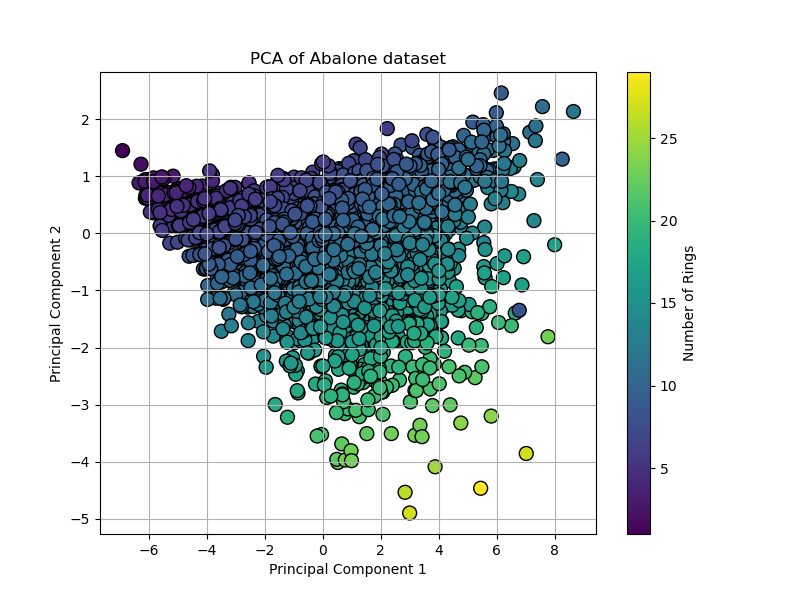
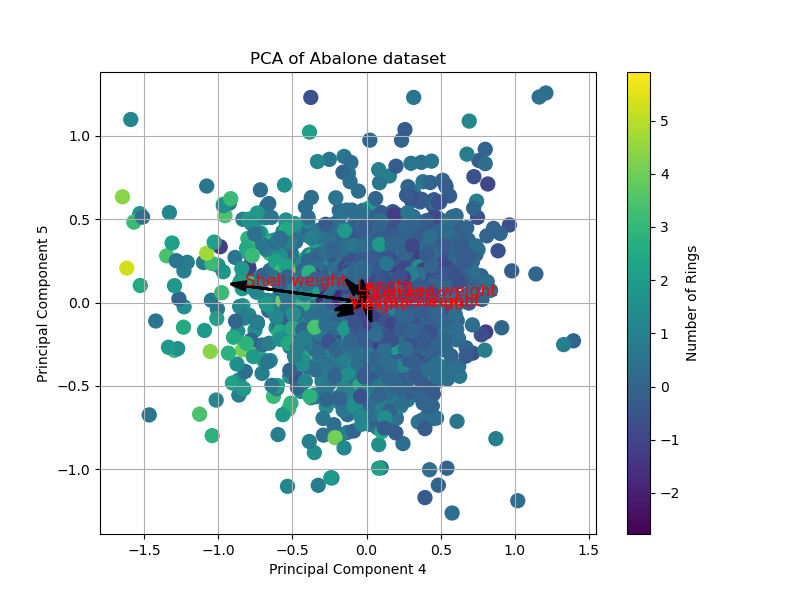
PCA Changes

diff --git a/pca-new.py b/pca-new.py
@@ -1,11 +1,36 @@
 from data import *
-from sklearn.preprocessing import StandardScaler
+from sklearn.decomposition import PCA
+from scipy import stats
 
-D_np = D_clean.to_numpy() # convert to numpy arrays
-#D_std = D_np - np.ones((N, 1)) * D_np.mean(axis=0) # mean = 0
-D_std = StandardScaler().fit_transform(D_np) # mean = 0, std = 1 (standardized)
+# Standardize the data
+D_std = (D_clean - D_clean.mean()) / D_clean.std()
 
-corr_mat = np.corrcoef(D_std.T) # correlation matrix
+X = D_std.drop(columns=["Rings"])
+Y = D_std
+X_and_Y = pd.concat([X, Y], axis=1)
+
+pca = PCA()
+pca.fit(X)
+X_pca = pca.transform(X)
+
+#%% Remove outliers
+# Calculate Z-scores
+z_scores = np.abs(stats.zscore(X_pca))
+
+# Define a threshold for Z-scores
+threshold = 5
+
+# Filter out the outliers
+outlier_mask = (z_scores < threshold).all(axis=1)
+X_pca = X_pca[outlier_mask]
+X_and_Y = X_and_Y[outlier_mask]
+
+print(f"Original shape: {(4177, 7)}")
+print(f"Filtered shape: {X_pca.shape}")
+print(f"Number of outliers: {4177 - X_pca.shape[0]}")
+
+#%% Plot the explained variance (this section could also use the PCA package, it was tested with and without and gave same results)
+corr_mat = np.corrcoef(X.T) # correlation matrix
 
 eigenvalues, eigenvectors = np.linalg.eig(corr_mat) # eigenvalues and eigenvectors
 
@@ -23,7 +48,7 @@ print(f"Variance explained: {variance_explained}")
 cumulative_variance = np.cumsum(variance_explained) # cumulative variance explained
 print(f"Cumulative variance: {cumulative_variance}")
 
-threshold = 90
+threshold = 92.5
 
 #Plot variance explained by the principal components
 plt.figure(figsize=(8, 6))
@@ -36,23 +61,27 @@ plt.xlabel('Principal components')
 plt.legend(["Individual", "Cumulative", "Threshold"])
 plt.tight_layout()
 plt.grid()
-plt.savefig('variance_explained.png')
+plt.savefig('billeder/variance_explained.png')
 plt.show()
 
-# Plot classifications
-# Use 2 components to explain more than 90% of the variance (could use 3 for 95%)
-projection_mat = np.hstack((pairs[0][1].reshape(8,1),
-                           pairs[1][1].reshape(8,1)))
-
-D_new = D_std.dot(projection_mat) # project the data onto the principal components
+#%% Plot the principal components
+i, j = 3, 4 # components to plot
 
 # Plot the PCA with rings
 plt.figure(figsize=(8, 6))
-scatter = plt.scatter(D_new[:, 0], D_new[:, 1], c=D['Rings'], cmap='viridis', edgecolor='k', s=100)
-plt.xlabel('Principal Component 1')
-plt.ylabel('Principal Component 2')
+scatter = plt.scatter(X_pca[:, i], X_pca[:, j], c=X_and_Y['Rings'], cmap='viridis', s=100) # edgecolor='k'
+plt.xlabel('Principal Component {}'.format(i+1))
+plt.ylabel('Principal Component {}'.format(j+1))
 plt.title('PCA of Abalone dataset')
 plt.colorbar(scatter, label='Number of Rings')
 plt.grid()
-plt.savefig('pca-graph.png')
+
+# Plot attribute coefficients in principal component space
+n_attributes = 7
+for att in range(n_attributes):
+    plt.arrow(0, 0, X_pca[att, i], X_pca[att, j], color='0', head_width=0.05, head_length=0.1, linewidth=2)
+    plt.text(X_pca[att, i], X_pca[att, j], parameters[att], color='r', fontsize=12)
+
+# Save figure and show the plot
+plt.savefig('billeder/pca-graph.png')
 plt.show()
